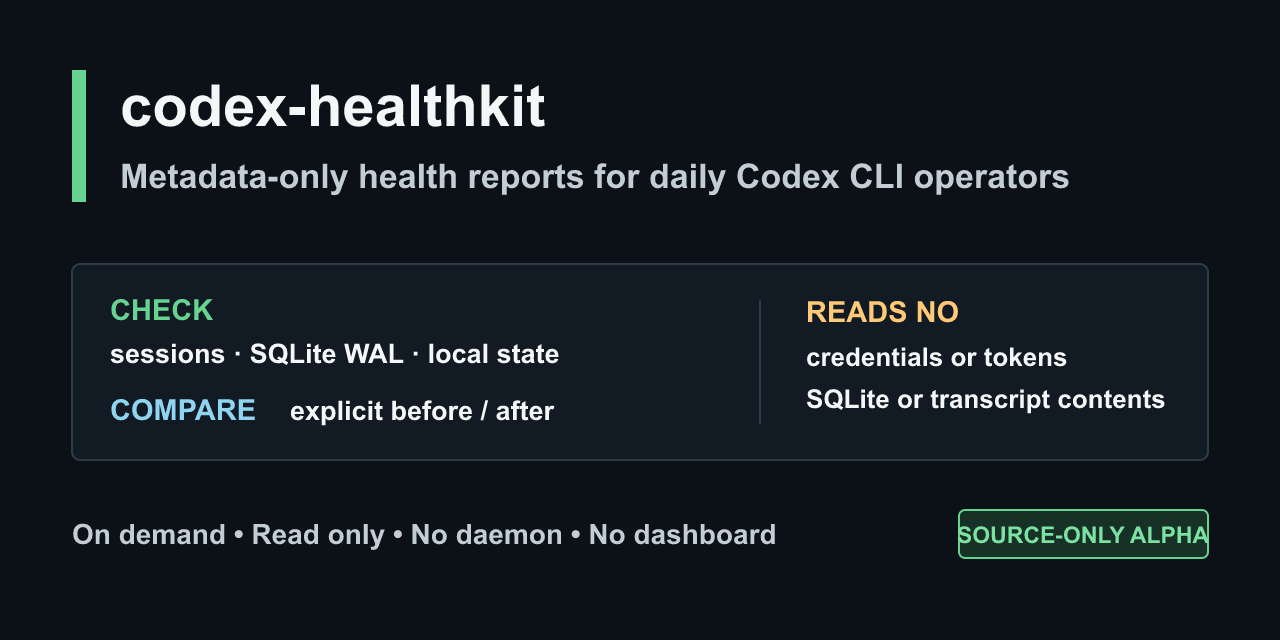
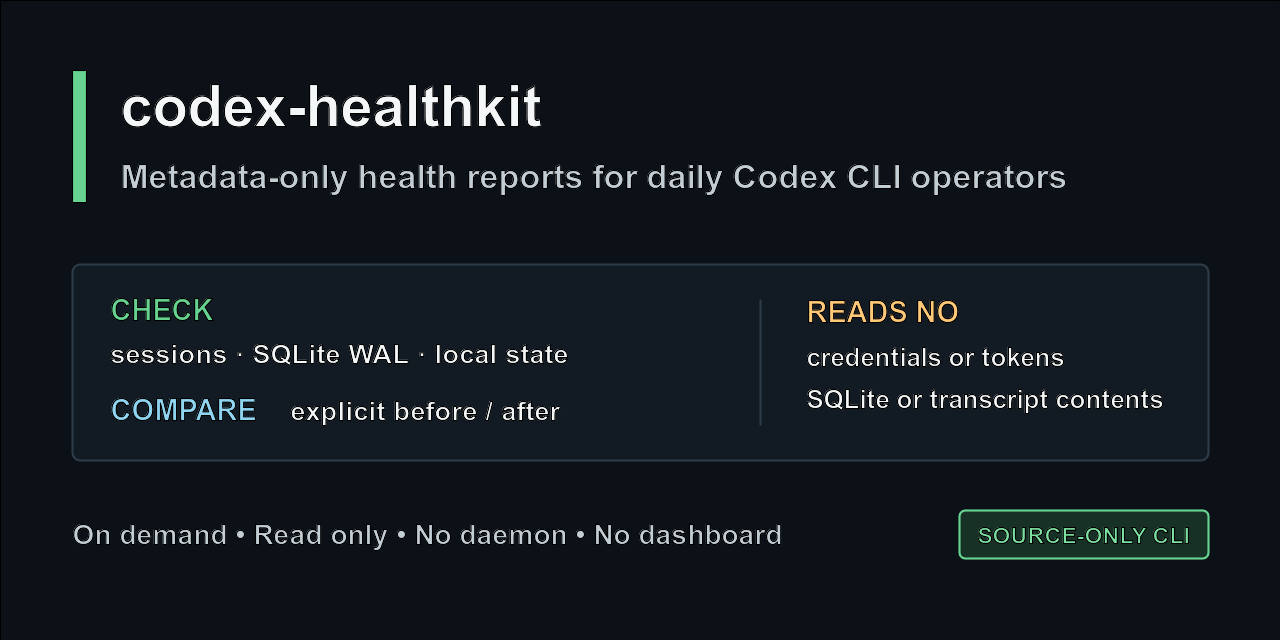
Synchronize the v0.2 social preview (#14)

diff --git a/README.ja.md b/README.ja.md
@@ -372,10 +372,10 @@ public issueには、credentials、tokens、cookies、private paths、raw sessio
 
 近い範囲:
 
-- source-only alphaの日次利用を継続
+- source-only releaseの日次利用を継続
 - fixture-based testsの追加
 - report exampleの改善
-- 実用改善がまとまった段階で次alphaを判断
+- 実用改善がまとまった段階で次releaseを判断
 
 新しい安全レビューが必要な範囲:
 

diff --git a/README.md b/README.md
@@ -373,10 +373,10 @@ See [CHANGELOG.md](CHANGELOG.md).
 
 Near-term:
 
-- continue daily use of the source-only alpha
+- continue daily use of the source-only release
 - more fixture-based tests
 - clearer report examples
-- decide the next alpha only after practical improvements accumulate
+- decide the next release only after practical improvements accumulate
 
 Out of scope until a new safety review:
 
